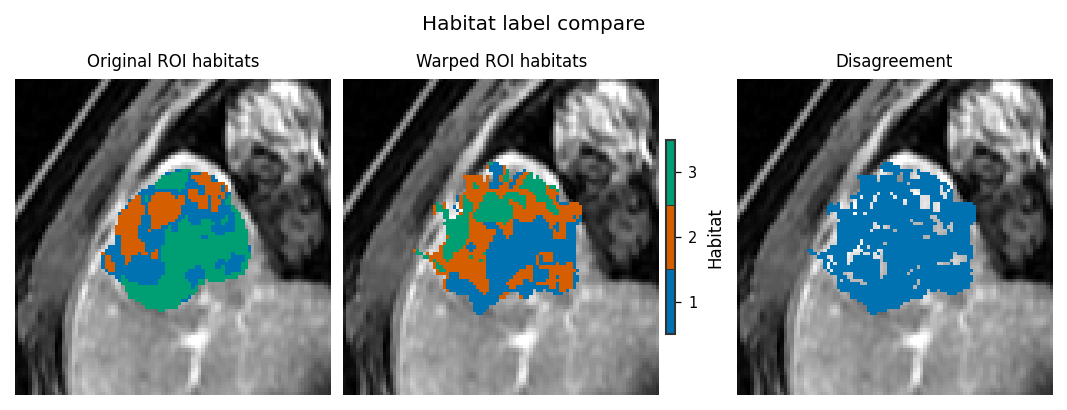
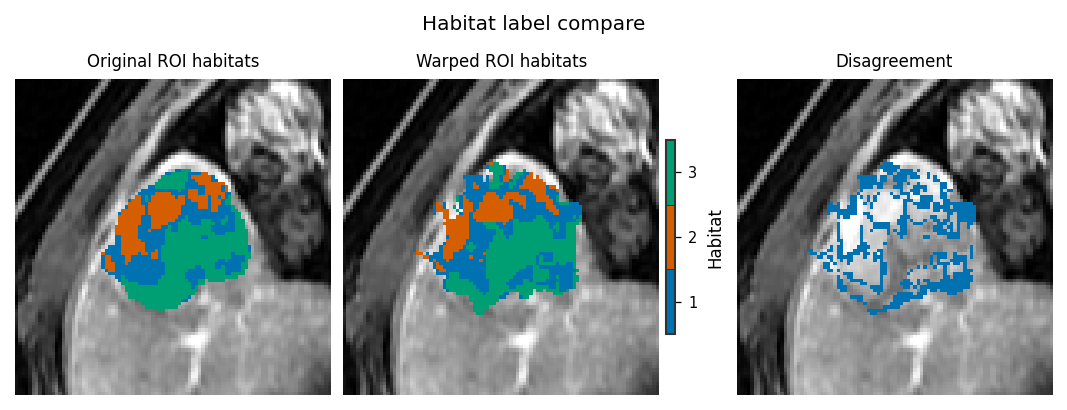
viz: remap warped habitat IDs by overlap before label compare

Changed region(s): [[0.3711, 0.3805, 0.5567, 0.761], [0.7732, 0.4098, 0.9278, 0.761]]

diff --git a/tests/viz/test_habitat_core_plots.py b/tests/viz/test_habitat_core_plots.py
@@ -339,3 +339,51 @@ def test_label_compare_skips_align_when_model_ids_match() -> None:
     # Auto-skip leaves the permutation in place: disagreement is the full ROI.
     disagree = (labels_a != labels_b) & ((labels_a > 0) | (labels_b > 0))
     assert int(np.count_nonzero(disagree)) == int(np.count_nonzero(labels_a > 0))
+
+
+@pytest.mark.unit
+def test_label_compare_force_align_ignores_2_3_swap() -> None:
+    """align_labels=True remaps a 2<->3 swap even when model_ids match."""
+    from habit.contracts import Geometry, HabitatMap, Provenance
+    from habit.kernels.habitat_label_match import align_label_array
+
+    labels_a = np.zeros((6, 4, 4), dtype=np.int32)
+    labels_a[0:2, 0:2, 0:2] = 1
+    labels_a[2:4, 0:2, 0:2] = 2
+    labels_a[4:6, 0:2, 0:2] = 3
+    labels_b = labels_a.copy()
+    labels_b[labels_a == 2] = 9
+    labels_b[labels_a == 3] = 2
+    labels_b[labels_b == 9] = 3
+    geometry = Geometry.from_array((6, 4, 4))
+    provenance = Provenance.source("viz_test")
+    map_a = HabitatMap(
+        subject_id="P1",
+        label_array=labels_a,
+        geometry=geometry,
+        model_id="shared-one-step-id",
+        habitat_ids=(1, 2, 3),
+        provenance=provenance,
+    )
+    map_b = HabitatMap(
+        subject_id="P1",
+        label_array=labels_b,
+        geometry=geometry,
+        model_id="shared-one-step-id",
+        habitat_ids=(1, 2, 3),
+        provenance=provenance,
+    )
+    image = np.zeros((6, 4, 4), dtype=np.float64)
+    import matplotlib.pyplot as plt
+
+    fig = plot_habitat_label_compare(
+        image, map_a, map_b, axis=0, align_labels=True
+    )
+    fig.canvas.draw()
+    plt.close(fig)
+    aligned = align_label_array(labels_a, labels_b, method="overlap")
+    assert np.array_equal(aligned, labels_a)
+    raw_disagree = (labels_a != labels_b) & ((labels_a > 0) | (labels_b > 0))
+    aligned_disagree = (aligned != labels_a) & ((aligned > 0) | (labels_a > 0))
+    assert int(np.count_nonzero(raw_disagree)) > 0
+    assert int(np.count_nonzero(aligned_disagree)) == 0

diff --git a/tests/domain/test_precision.py b/tests/domain/test_precision.py
@@ -843,7 +843,12 @@ class TestAlignHabitatMap:
         assert np.array_equal(aligned.label_array, reference.label_array)
 
     def test_overlap_2_3_swap_on_moving_only(self) -> None:
-        """Overlap remaps a 2<->3 permutation on moving; disagreement ignores it."""
+        """Overlap remaps a 2<->3 permutation on moving; disagreement ignores it.
+
+        Independent one_step fits of the same spec on the same subject share
+        a model_id (subject-id digest, not image content). force=True is
+        what actually applies the remap in that situation.
+        """
         labels = np.zeros((6, 4, 4), dtype=np.int32)
         labels[0:2, 0:2, 0:2] = 1
         labels[2:4, 0:2, 0:2] = 2
@@ -856,7 +861,7 @@ class TestAlignHabitatMap:
             subject_id="P1",
             label_array=labels,
             geometry=Geometry.from_array((6, 4, 4)),
-            model_id="ref-model",
+            model_id="shared-one-step-id",
             habitat_ids=(1, 2, 3),
             provenance=provenance(),
         )
@@ -864,11 +869,15 @@ class TestAlignHabitatMap:
             subject_id="P1",
             label_array=swapped,
             geometry=reference.geometry,
-            model_id="other-model",
+            model_id="shared-one-step-id",
             habitat_ids=(1, 2, 3),
             provenance=provenance(),
         )
-        aligned = align_habitat_map(reference, moving, method="overlap")
+        skipped = align_habitat_map(reference, moving, method="overlap")
+        assert skipped is moving
+        aligned = align_habitat_map(
+            reference, moving, method="overlap", force=True
+        )
         assert np.array_equal(reference.label_array, labels)
         assert np.array_equal(aligned.label_array, labels)
         assert not np.array_equal(moving.label_array, labels)

diff --git a/docs/source/examples/scripts/precise_screening_tutorial_demo.py b/docs/source/examples/scripts/precise_screening_tutorial_demo.py
@@ -608,9 +608,12 @@ if __name__ == "__main__":
     # Independent one_step fits permute integer ids. Remap the warped map
     # (panel 2 only) onto the reference by maximal voxel overlap -- the
     # same Hungarian pairing habitat_stability uses -- so habitat 2 is the
-    # same spatial region on both panels. Feature-space centroids can
-    # disagree with that pairing. Dice is scored on the original pair.
-    aligned_map = align_habitat_map(ref_map, mov_map, method="overlap")
+    # same spatial region on both panels. force=True is required: both
+    # fits share a model_id (same spec + subject id digest) even though
+    # the clusterings are independent. Dice is scored on the original pair.
+    aligned_map = align_habitat_map(
+        ref_map, mov_map, method="overlap", force=True
+    )
     dice_frame = habitat_stability(ref_map, [mov_map])
     print("Habitat Dice after BSplineDeform (Hungarian match)")
     print(dice_frame.to_string(index=False))
@@ -646,6 +649,7 @@ if __name__ == "__main__":
         ref_map,
         aligned_map,
         titles=("Original ROI habitats", "Warped ROI habitats"),
+        align_labels=True,
     )
     fig_cmp.savefig(
         "out/precise_habitat_stability_compare.png", dpi=150, bbox_inches="tight"

diff --git a/habit/viz/habitat_core.py b/habit/viz/habitat_core.py
@@ -869,6 +869,8 @@ def plot_habitat_label_compare(
         colorbar_label: Colorbar label (English default ``\"Habitat\"``).
         align_labels: ``None`` (default) aligns unless both inputs share a
             ``model_id``; ``True`` always aligns; ``False`` never aligns.
+            Independent ``one_step`` fits on the same subject share a
+            model_id (spec + subject-id digest) and need ``True``.
         align_method: ``"overlap"`` (default, same-grid visual compare) or
             ``"centroid"`` (feature / intensity centroids).
 

diff --git a/habit/domain/precision/stability.py b/habit/domain/precision/stability.py
@@ -111,6 +111,9 @@ def align_habitat_map(
             ``habitat_ids[i]``).
         moving_centroids: Optional cluster centres of the moving fit.
         force: If True, align even when ``model_id`` already matches.
+            Independent ``one_step`` / ``fit_predict`` runs on the same
+            subject share a model_id (spec + subject-id digest, not image
+            content) and need ``force=True``.
 
     Returns:
         A new map with remapped labels, ``model_id`` / ``habitat_ids``

diff --git a/docs/source/examples/precise_features.rst b/docs/source/examples/precise_features.rst
@@ -267,9 +267,9 @@ Paste after the Script block (it uses ``subject``, ``retest``,
    Habitats before vs after the MONAI B-spline warp
    (:func:`~habit.viz.plot_habitat_label_compare`).
    Panel 2 (warped) is relabelled onto the reference ids by spatial
-   overlap (:func:`~habit.align_habitat_map` with ``method="overlap"``)
-   so habitat 2 is the same region in both panels. Disagreement is
-   after that remap, not raw id inequality.
+   overlap (:func:`~habit.align_habitat_map` with ``method="overlap"``
+   and ``force=True``) so habitat 2 is the same region in both panels.
+   Disagreement is after that remap, not raw id inequality.
 
 .. figure:: ../_static/images/examples/precise_habitat_dice.png
    :alt: Per-habitat Dice after Hungarian matching
